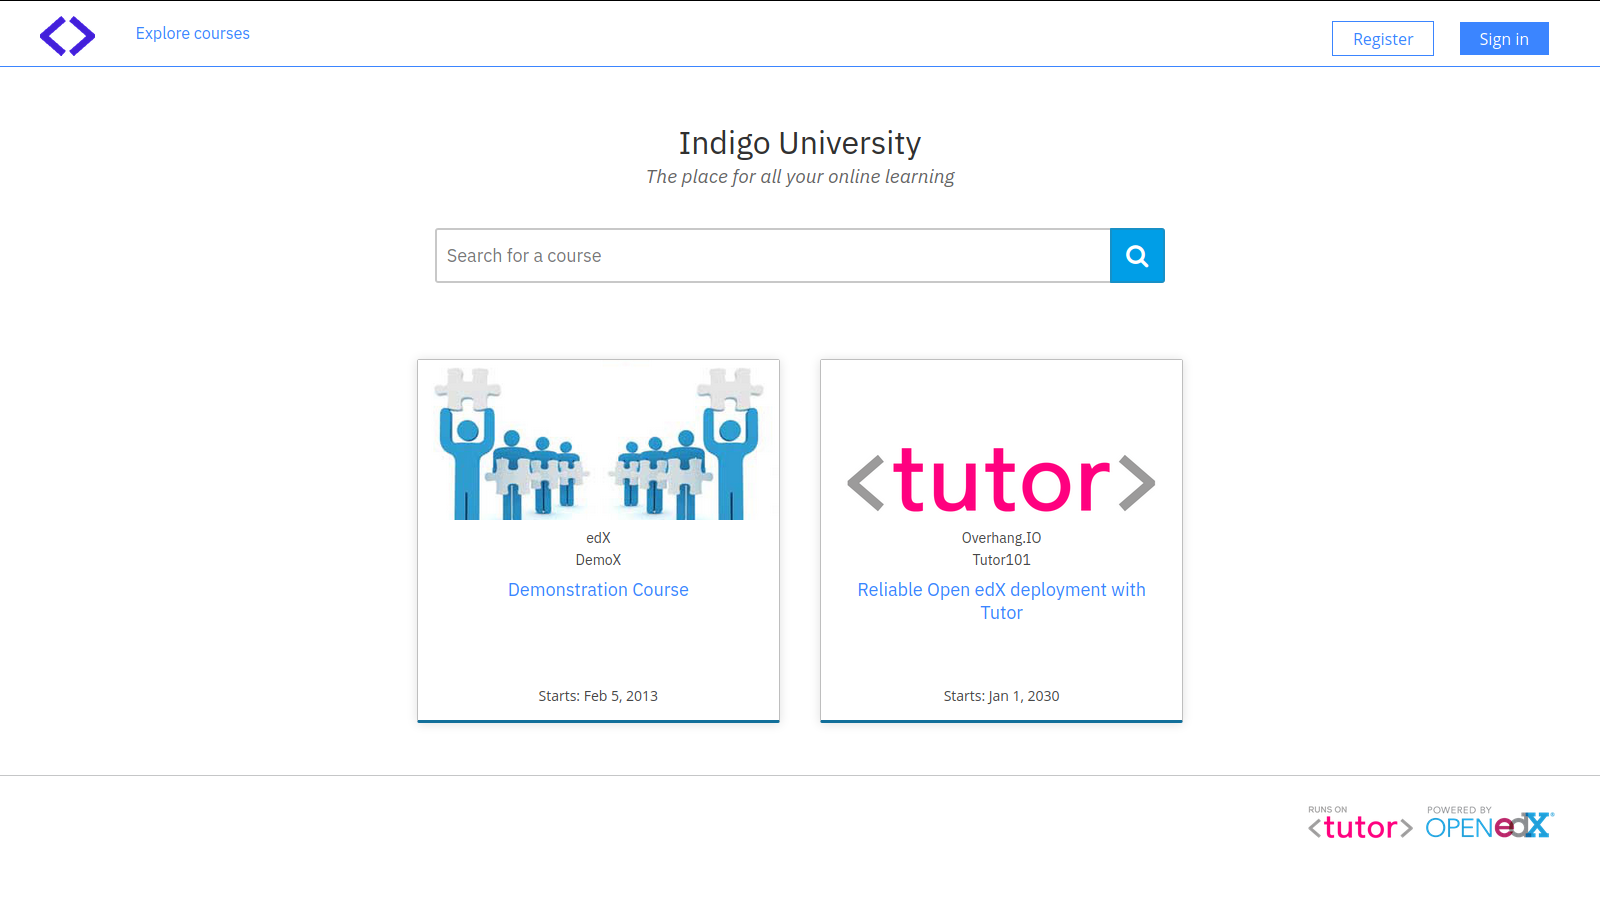
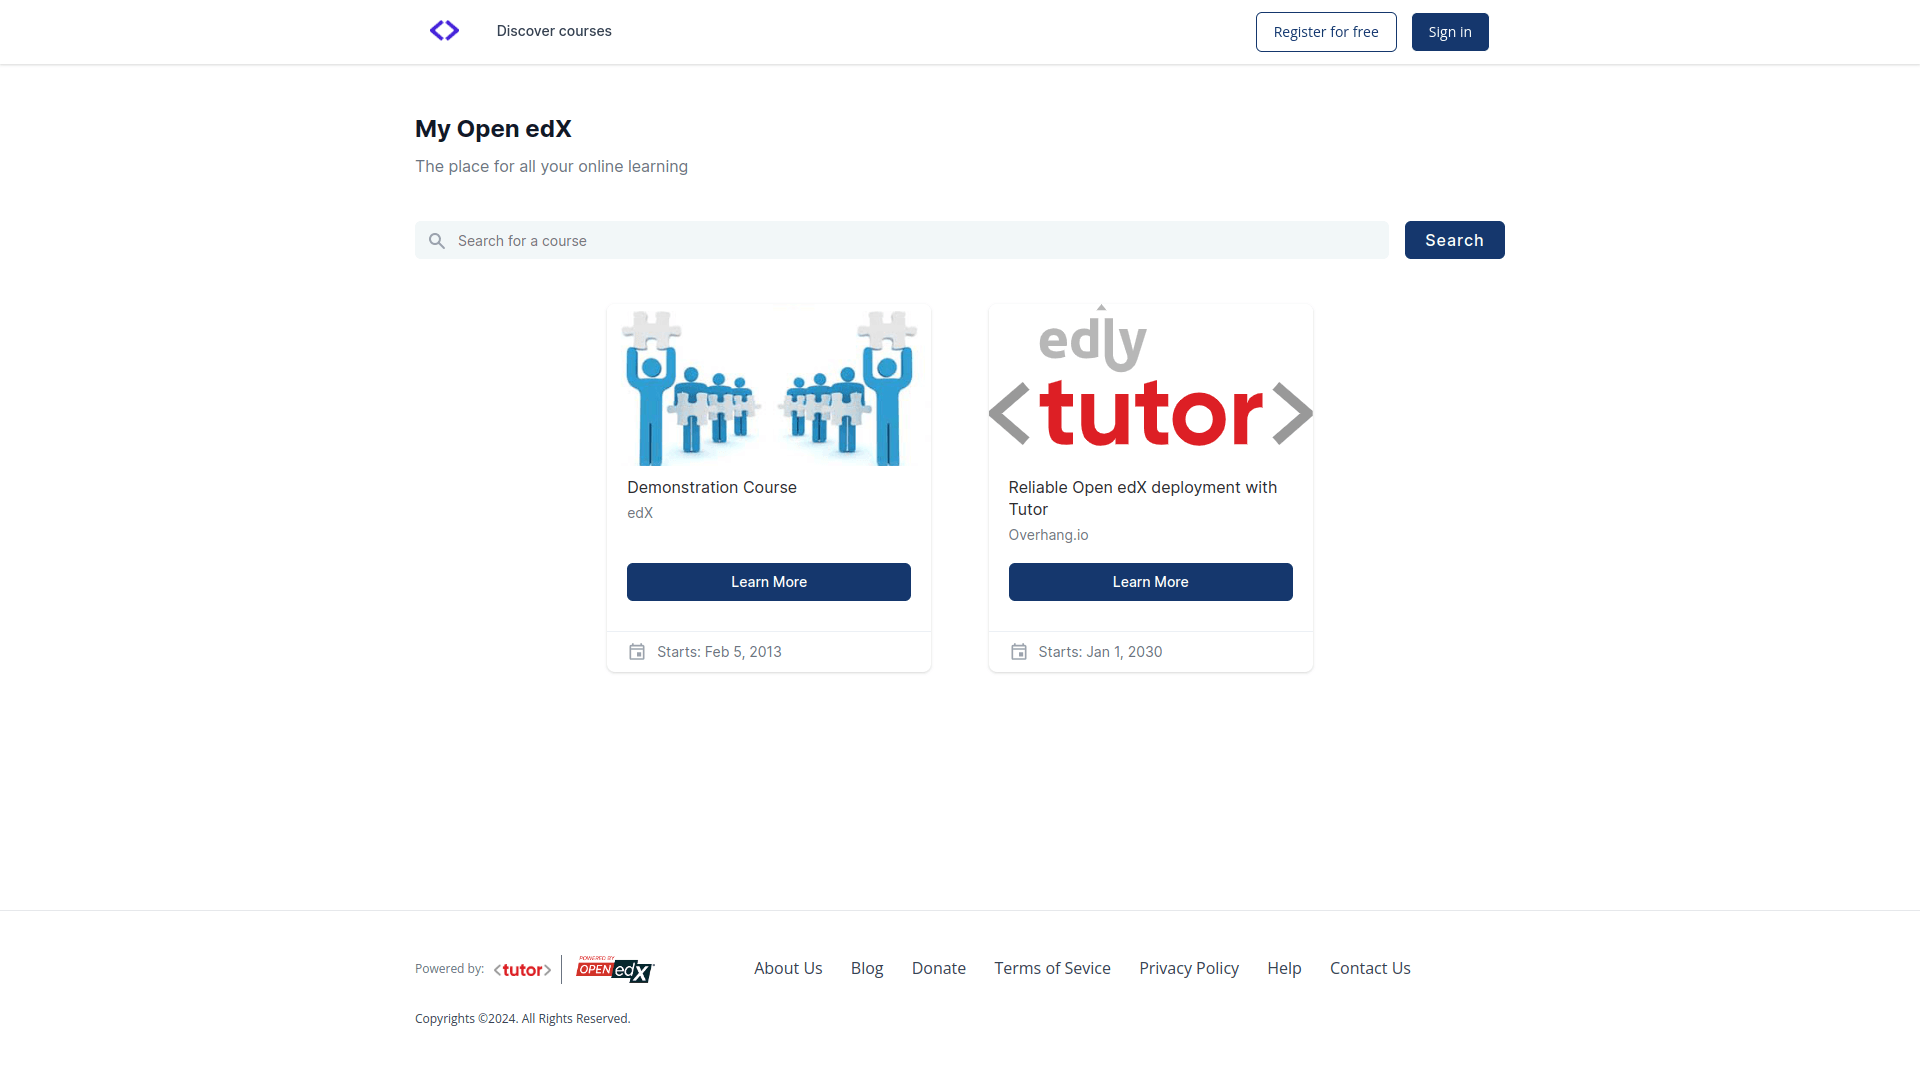
chore: README updated

diff --git a/README.rst b/README.rst
@@ -1,35 +1,25 @@
 Indigo, a cool blue theme for Open edX
 ======================================
 
-Indigo is an elegant, customizable theme for `Open edX <https://open.edx.org>`__.
+Indigo is an elegant, customizable theme for `Open edX <https://openedx.org>`__.
 
 .. image:: ./screenshots/01-landing-page.png
     :alt: Platform landing page
 
-**Note**: This version of the Indigo theme is compatible with the Olive release of Open edX.
-
-You can view the theme in action at https://demo.openedx.overhang.io.
+You can view the theme in action at https://sandbox.openedx.edly.io.
 
 Installation
 ------------
 
-Indigo was specially developed to be used with `Tutor <https://docs.overhang.io>`__ (at least v14.0.0). If you have not installed Open edX with Tutor, then installation instructions will vary.
+Indigo was specially developed to be used with `Tutor <https://docs.tutor.edly.io>`__ (at least v14.0.0). If you have not installed Open edX with Tutor, then installation instructions will vary.
 
-Since Tutor v13.2.0, Indigo can be installed as a Tutor plugin::
+Install and enable Indigo plugin::
 
-    pip install tutor-indigo
+    tutor plugins install indigo
     tutor plugins enable indigo
-    tutor config save
+    tutor local launch
 
-Rebuild the Openedx docker image::
-
-    tutor images build openedx
-
-Restart your platform::
-
-    tutor local start -d
-
-You will then have to enable the "indigo" theme, as per the `Tutor documentation <https://docs.tutor.overhang.io/local.html#setting-a-new-theme>`__::
+The Indigo theme will be automatically enabled if you have not previously defined a theme. To override an existing theme, use the `settheme command <https://docs.tutor.edly.io/local.html#setting-a-new-theme>`__::
 
     tutor local do settheme indigo
 
@@ -39,16 +29,41 @@ Configuration
 - ``INDIGO_WELCOME_MESSAGE`` (default: "The place for all your online learning")
 - ``INDIGO_PRIMARY_COLOR`` (default: "#3b85ff")
 - ``INDIGO_FOOTER_NAV_LINKS`` (default: ``[{"title": "About", "url": "/about"}, {"title": "Contact", "url": "/contact"}]``)
-- ``INDIGO_FOOTER_LEGAL_LINKS`` (default: ``[{"title": "Terms of service", "url": "/tos"}, {"title": "Indigo theme for Open edX", "url": "https://github.com/overhangio/tutor-indigo"}]``)
 
 The ``INDIGO_*`` settings listed above may be modified by running ``tutor config save --set INDIGO_...=...``. For instance, to remove all links from the footer, run::
 
-    tutor config save --set "INDIGO_FOOTER_NAV_LINKS=[]" --set "INDIGO_FOOTER_LEGAL_LINKS=[]"
+    tutor config save --set "INDIGO_FOOTER_NAV_LINKS=[]"
+
+Or, to set the primary color to forest green, run::
+
+    # Note: The nested quotes are needed in order to handle the hash (#) correctly.
+    tutor config save --set 'INDIGO_PRIMARY_COLOR="#225522"'
 
 Customization
 -------------
 
 This plugin can serve as a starting point to create your own themes. Just fork this repository and modify the files as you see fit.
+
+You will have to start by installing indigo from source::
+
+    git clone https://github.com/overhangio/tutor-indigo.git
+    pip install -e ./tutor-indigo
+    tutor plugins enable indigo
+
+Any change you make to the theme can be viewed immediately in development mode (with `tutor dev ...` commands) after you run::
+
+    tutor config save
+
+To deploy your changes to production, you will have to rebuild the "openedx" Docker image and restart your containers::
+
+    tutor images build openedx
+    tutor local start -d
+
+Changing the Styling in Sass files
+~~~~~~~~~~~~~~~~~~~~~~~~~~~~~~~~~~
+
+To customize the theme stylesheets, modify the files in the ``tutorindigo/templates/indigo/lms/static/sass/`` and  ``tutorindigo/templates/indigo/cms/static/sass/`` directories. In particular, the ``_extras.scss`` files should contain most styling rules.
+
 
 Changing the default logo and other images
 ~~~~~~~~~~~~~~~~~~~~~~~~~~~~~~~~~~~~~~~~~~
@@ -60,11 +75,13 @@ Overriding the default "about", "contact", etc. static pages
 
 By default, the ``/about`` and ``/contact`` pages contain a simple line of text: "This page left intentionally blank. Feel free to add your own content". This is of course unusable in production. In the following, we detail how to override just any of the static templates used in Open edX.
 
-The static templates used by Open edX to render those pages are all stored in the `edx-platform/lms/templates/static_templates <https://github.com/edx/edx-platform/tree/open-release/olive.master/lms/templates/static_templates>`__ folder. To override those templates, you should add your own in the following folder::
+The static templates used by Open edX to render those pages are all stored in the `edx-platform/lms/templates/static_templates <https://github.com/edx/edx-platform/tree/open-release/quince.master/lms/templates/static_templates>`__ folder. To override those templates, you should add your own in the following folder::
 
     ls tutorindigo/templates/indigo/lms/templates/static_templates"
 
-For instance, edit the "donate.html" file in this directory. We can derive the content of this file from the contents of the `donate.html <https://github.com/edx/edx-platform/blob/open-release/olive.master/lms/templates/static_templates/donate.html>`__ static template in edx-platform::
+For instance, edit the "donate.html" file in this directory. We can derive the content of this file from the contents of the `donate.html <https://github.com/edx/edx-platform/blob/open-release/quince.master/lms/templates/static_templates/donate.html>`__ static template in edx-platform:
+
+.. code-block:: mako
 
     <%page expression_filter="h"/>
     <%! from django.utils.translation import ugettext as _ %>
@@ -88,7 +105,22 @@ This new template will then be used to render the /donate url.
 Troubleshooting
 ---------------
 
-This Tutor plugin is maintained by Régis Behmo from `Overhang.IO <https://overhang.io>`__. Community support is available from the official `Open edX forum <https://discuss.openedx.org>`__. Do you need help with this plugin? See the `troubleshooting <https://docs.tutor.overhang.io/troubleshooting.html>`__ section from the Tutor documentation.
+Can't override styles using Indigo Theme for MFEs
+-------------------------------------------------
+
+The indigo theme can’t override styles for MFEs directly. It overrides the styles for edx-platform. In case of MFEs, `@edx/brand <https://github.com/openedx/brand-openedx>`_ is used to override the styles. Customize the ``@edx/brand`` package to your preferences and include this customized package in `tutor-indigo` plugin. In this way, styles can be overidden::
+
+
+    hooks.Filters.ENV_PATCHES.add_item((
+                "mfe-dockerfile-post-npm-install",
+                """
+    RUN npm install '@edx/brand@npm:custom-brand-package'
+    RUN npm install '@edx/brand@git+https://github.com/username/brand-openedx.git#custom-branch'
+    """,
+            ))
+
+
+This Tutor plugin is maintained by Hina Khadim from `Edly <https://edly.io>`__. Community support is available from the official `Open edX forum <https://discuss.openedx.org>`__. Do you need help with this plugin? See the `troubleshooting <https://docs.tutor.edly.io/troubleshooting.html>`__ section from the Tutor documentation.
 
 
 License
